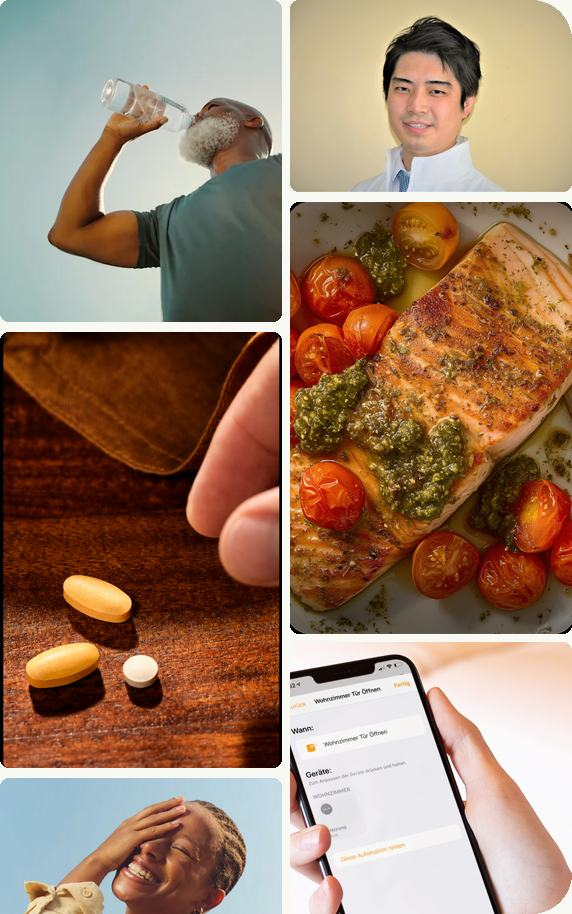
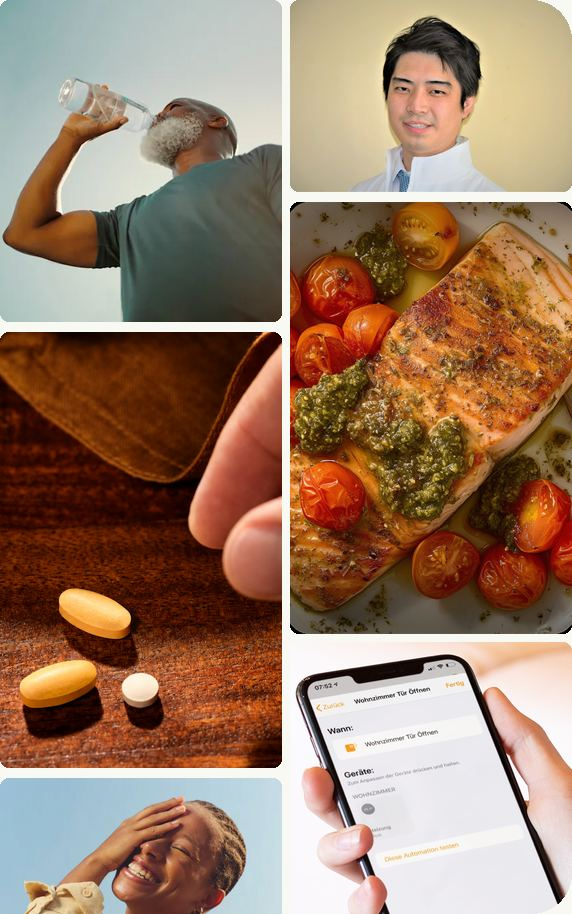
Welcome email: exact Figma crops, how-it-works geometry, live payment badges
Three QA fixes:

1. Hero photos now use the Figma CROP matrices. t1/t4/t5 are CROP-mode
   fills with imageTransform matrices; I was centre-cover-cropping all
   six, so those three showed the wrong part of the photo. Now each tile
   is cropped to the exact normalised rect from the file (t2/t3/t6 stay
   cover-crop, which is what FILL mode does).

2. "How it works" rebuilt to the Figma's real geometry: 580 card with
   28/20 padding, heading 25 Gilroy-Bold, then rows at x=20 with 73px
   thumbs whose heights differ per row (72 / 91 / 72 — they were all
   64px squares), r6 corners, 12px gap to the text, 20px round #3f5c50
   badge, title at +28, body at +52, 16px between rows.

3. Payment badges extracted from the live site: fetched the footer SVGs
   and rasterised them (PyMuPDF), then composited LegitScript +
   Registered Pharmacy 9012990 + Apple Pay + Google Pay + Stripe into one
   241x61 strip at the Figma positions — so the footer badge row now
   matches, and no SVG is needed (email clients can't render SVG).

Whole image set is 416 KB. tsc + eslint clean.

diff --git a/lib/account-email.ts b/lib/account-email.ts
@@ -225,17 +225,25 @@ export async function sendWelcomeEmail(
     *{letter-spacing:0 !important}
   `;
 
-  // Numbered step row (dark circle "01" + title + body), exact Figma type.
-  const step = (n: string, thumb: string, title: string, body: string) => `
+  // Step row — exact Figma geometry: 73px thumb (r6, per-row height), 12px
+  // gap, 20px round badge, title at +28, body at +52. Rows are 16px apart.
+  const step = (
+    n: string,
+    thumb: string,
+    th: number,
+    title: string,
+    body: string,
+    last = false,
+  ) => `
     <tr>
-      <td width="72" valign="top" style="padding:0 16px 20px 0">
-        <img src="${thumb}" alt="" width="64" height="64" style="width:64px;height:64px;border-radius:12px;object-fit:cover;display:block;border:0" />
+      <td width="73" valign="top" style="width:73px;padding:0 12px ${last ? 0 : 16}px 0;font-size:0;line-height:0">
+        <img src="${thumb}" alt="" width="73" height="${th}" style="width:73px;height:${th}px;display:block;border:0;border-radius:6px" />
       </td>
-      <td valign="top" style="padding:0 0 20px">
-        <div style="width:20px;height:20px;background:${BRAND};border-radius:50%;text-align:center;margin:0 0 6px">
-          <span style="font-family:${SANS};font-size:9px;font-weight:600;color:#ffffff;line-height:20px">${n}</span>
-        </div>
-        <p style="margin:0 0 4px;font-family:${SANS};font-size:16px;font-weight:600;line-height:20px;color:#040404">${title}</p>
+      <td valign="top" style="padding:0 0 ${last ? 0 : 16}px">
+        <table role="presentation" cellpadding="0" cellspacing="0"><tr><td width="20" height="20" align="center" valign="middle" style="width:20px;height:20px;background:#3f5c50;border-radius:10px">
+          <span style="font-family:${SANS};font-size:8px;font-weight:400;color:#ffffff;line-height:20px">${n}</span>
+        </td></tr></table>
+        <p style="margin:8px 0 4px;font-family:${SANS};font-size:16px;font-weight:600;line-height:20px;color:#040404">${title}</p>
         <p style="margin:0;font-family:${SANS};font-size:14px;font-weight:400;line-height:20px;color:#040404">${body}</p>
       </td>
     </tr>`;
@@ -261,14 +269,15 @@ export async function sendWelcomeEmail(
       </tr>
     </table>
 
-    <!-- How it works — sits on a cream card (Figma #f7f9f2) -->
+    <!-- How it works — Figma: 580 cream card r20, heading 16/28, rows from
+         y=70 with 20px side padding and 16px row gaps -->
     <table role="presentation" width="580" cellpadding="0" cellspacing="0" style="width:580px;max-width:100%;margin-top:16px;background:#f7f9f2;border-radius:20px">
-      <tr><td style="padding:26px 26px 8px">
-        <h2 style="margin:0 0 20px;font-family:${GIL};font-size:25px;font-weight:700;line-height:26px;color:${BRAND};text-align:center">Here&rsquo;s how it <span style="font-family:${SER};font-style:italic;font-weight:400">works</span></h2>
-        <table role="presentation" width="100%" cellpadding="0" cellspacing="0">
-          ${step("01", `${img}/welcome-step-1.jpg`, "Tell us about your goals.", "Complete a short online assessment so we understand your needs.")}
-          ${step("02", `${img}/welcome-step-2.jpg`, "Our pharmacy team checks your suitability.", "Your answers are reviewed against clinical eligibility criteria by our GPhC-registered pharmacy.")}
-          ${step("03", `${img}/welcome-step-3.jpg`, "Receive your next step.", "If your treatment is suitable, we&rsquo;ll guide you from there.")}
+      <tr><td style="padding:28px 20px">
+        <h2 style="margin:0 0 16px;font-family:${GIL};font-size:25px;font-weight:700;line-height:26px;color:${BRAND};text-align:center">Here&rsquo;s how it <span style="font-family:${SER};font-style:italic;font-weight:400">works</span></h2>
+        <table role="presentation" width="540" cellpadding="0" cellspacing="0" style="width:540px;max-width:100%">
+          ${step("01", `${img}/welcome-step1.jpg`, 72, "Tell us about your goals.", "Complete a short online assessment so we understand your needs.")}
+          ${step("02", `${img}/welcome-step2.jpg`, 91, "Our pharmacy team checks your suitability.", "Your answers are reviewed against clinical eligibility criteria by our GPhC-registered pharmacy.")}
+          ${step("03", `${img}/welcome-step3.jpg`, 72, "Receive your next step.", "If your treatment is suitable, we&rsquo;ll guide you from there.", true)}
         </table>
       </td></tr>
     </table>
@@ -329,9 +338,8 @@ export async function sendWelcomeEmail(
             <img src="${logo}" alt="JOOD" height="48" style="height:48px;width:auto;display:inline-block;border:0"/>
           </td>
         </tr></table>
-        <div style="margin:18px 0 16px">
-          <img src="${url}/assets/email/badge-legitscript.png" alt="LegitScript certified" height="40" style="height:40px;width:auto;display:inline-block;vertical-align:middle;border:0;margin-right:12px"/>
-          <img src="${url}/assets/email/badge-gphc.png" alt="GPhC registered pharmacy (9012990)" height="30" style="height:30px;width:auto;display:inline-block;vertical-align:middle;border:0"/>
+        <div style="margin:14px 0 16px;text-align:right;font-size:0;line-height:0">
+          <img src="${url}/assets/email/badges-row.png" alt="LegitScript Certified · Registered Pharmacy 9012990 · Apple Pay · Google Pay · Stripe" width="241" height="61" style="width:241px;height:61px;display:inline-block;border:0"/>
         </div>
         <p style="margin:0;font-family:${SANS};font-size:13px;line-height:18px;color:rgba(255,255,255,.72);text-align:center">
           © ${year} Jood. All rights reserved. Superintendent Pharmacist: Zahhaad Khalil (2228969).
